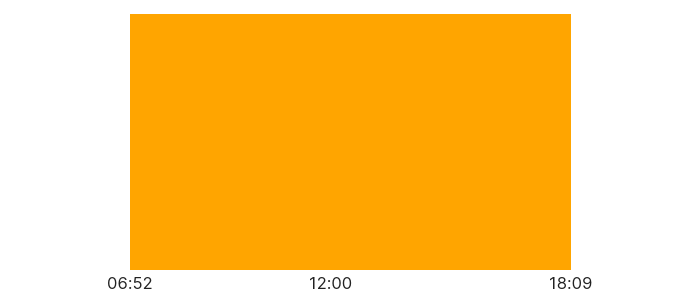
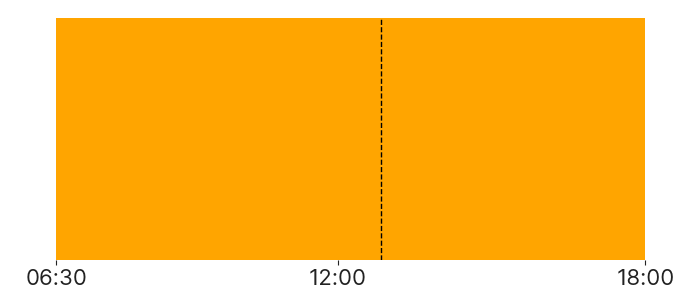
Improve sunrise sunset graph

diff --git a/weather_boston/charts/sun.py b/weather_boston/charts/sun.py
@@ -27,13 +27,14 @@ def generate_sunrise_sunset_chart(
 
     # x-axis labels should be the time
     ax.set_xticks(
-        [0, time_to_float(sunrise), 12, time_to_float(sunset), 24],
+        [time_to_float(sunrise), 12, time_to_float(sunset)],
     )
     ax.set_xticklabels(
-        ["", format_time(sunrise), "12:00", format_time(sunset), ""],
+        [format_time(sunrise), "12:00", format_time(sunset)],
     )
 
-    ax.set_xlim([4.0, 21.0])
+    # Don't make the graph too wide
+    ax.set_xlim([time_to_float(sunrise)-0.25, time_to_float(sunset)+0.25])
 
     # No y-axis labels required
     ax.set_yticks([])
